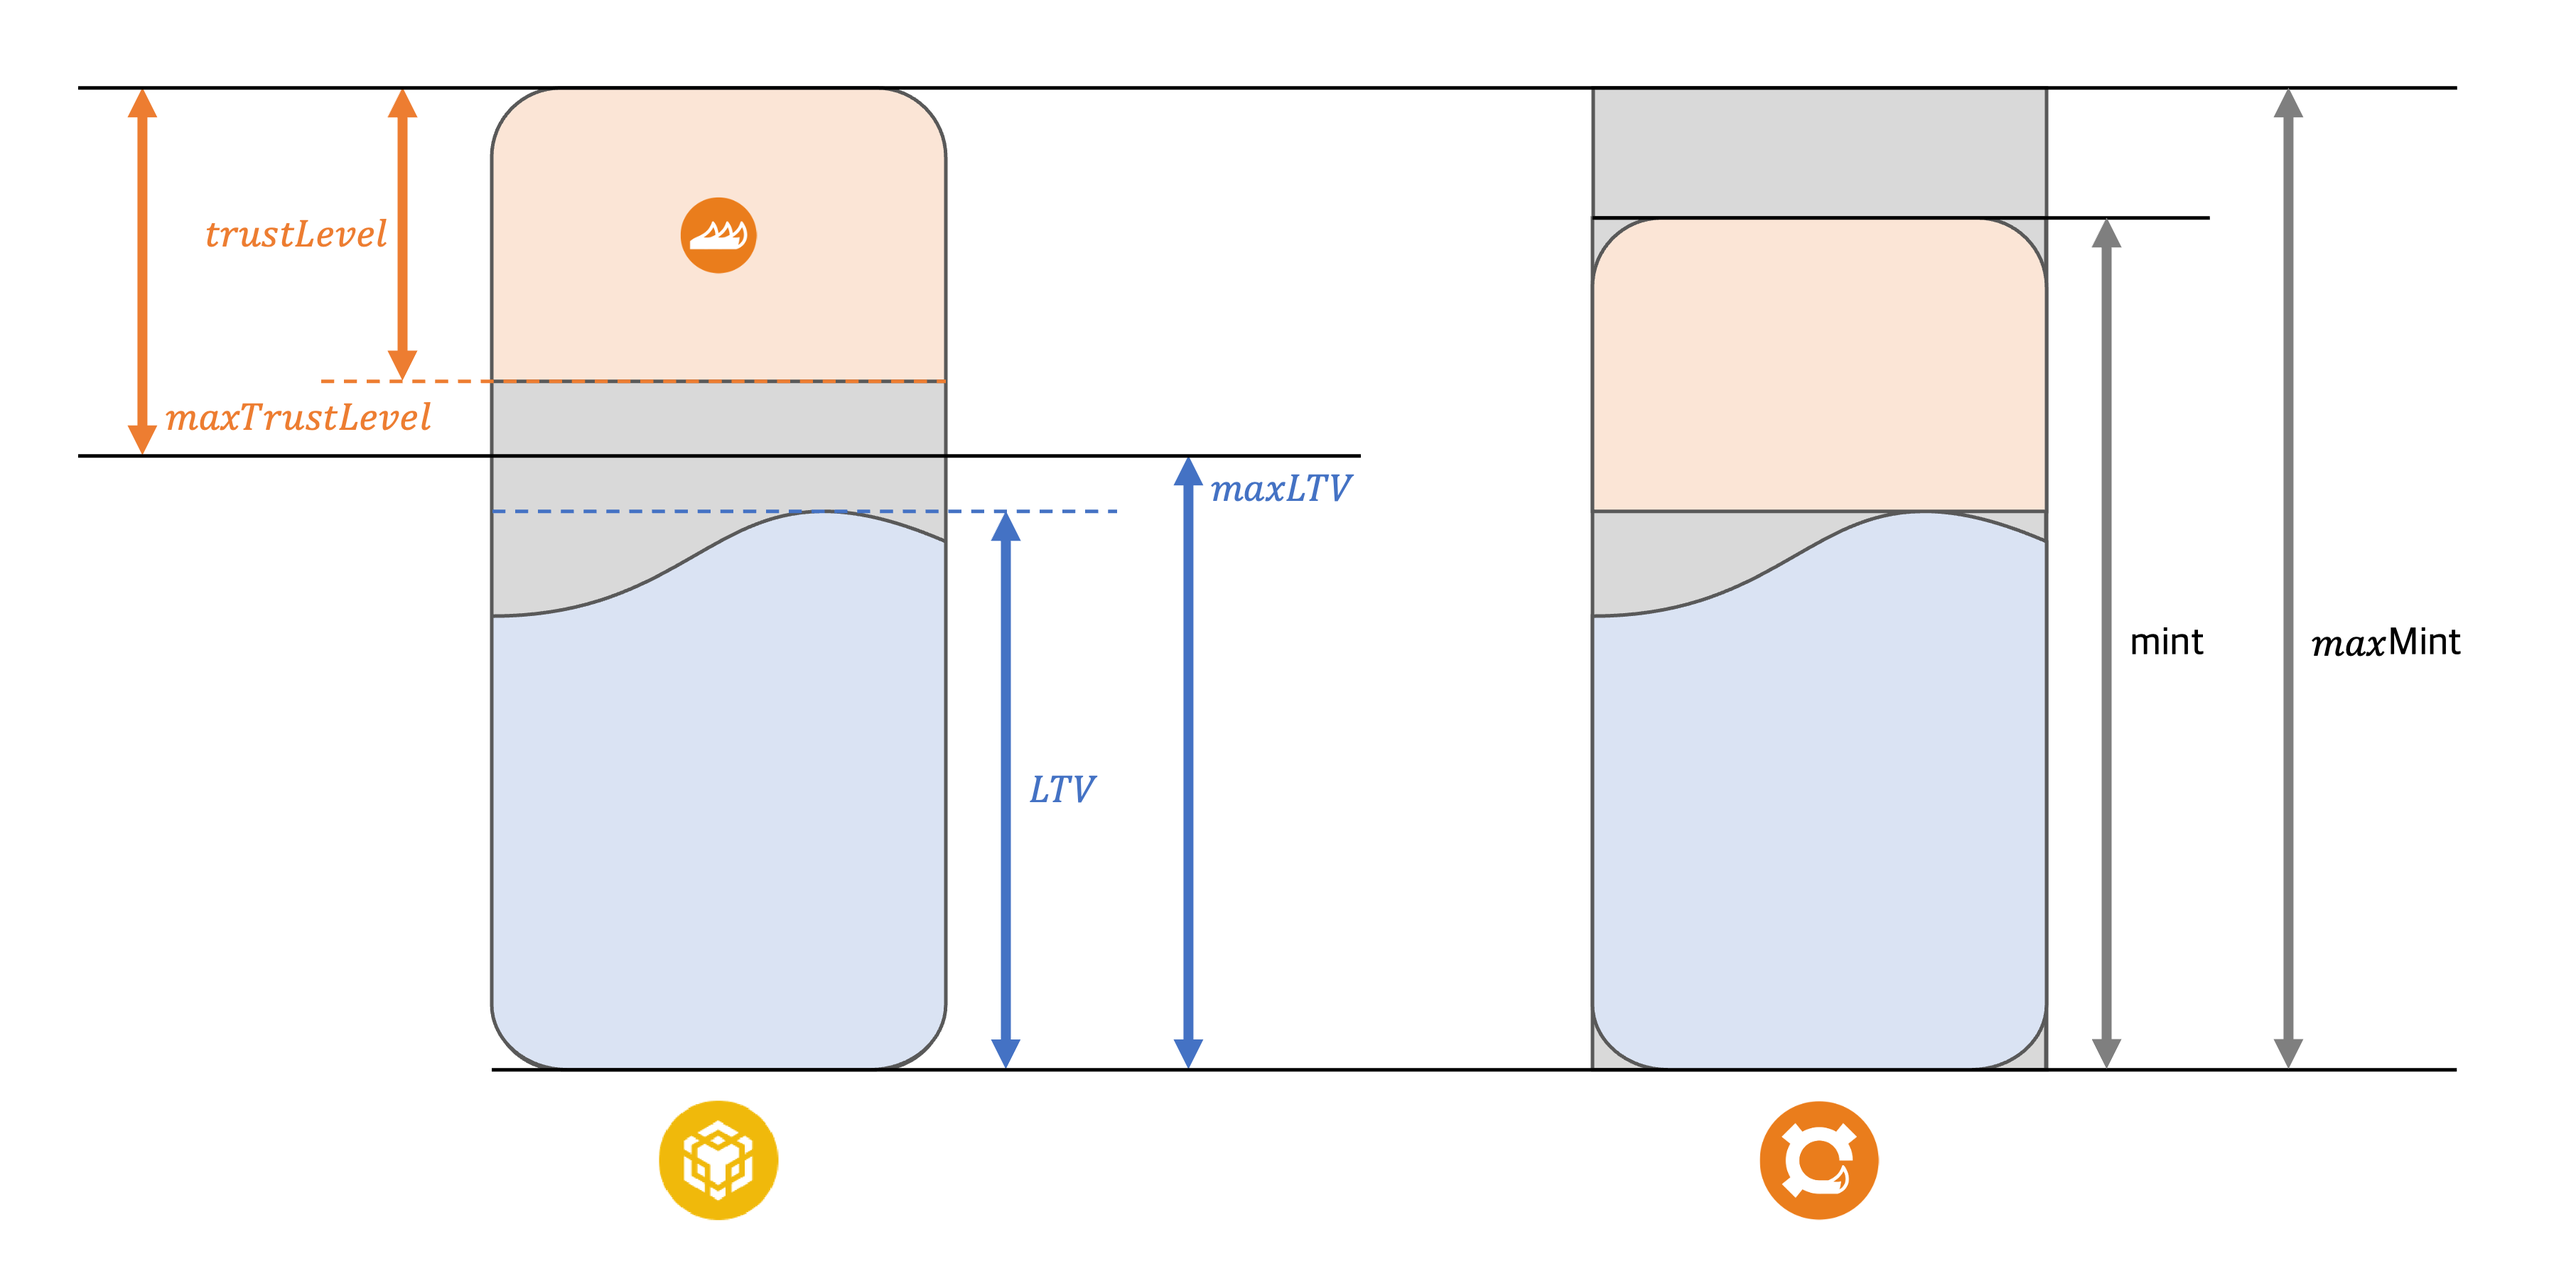
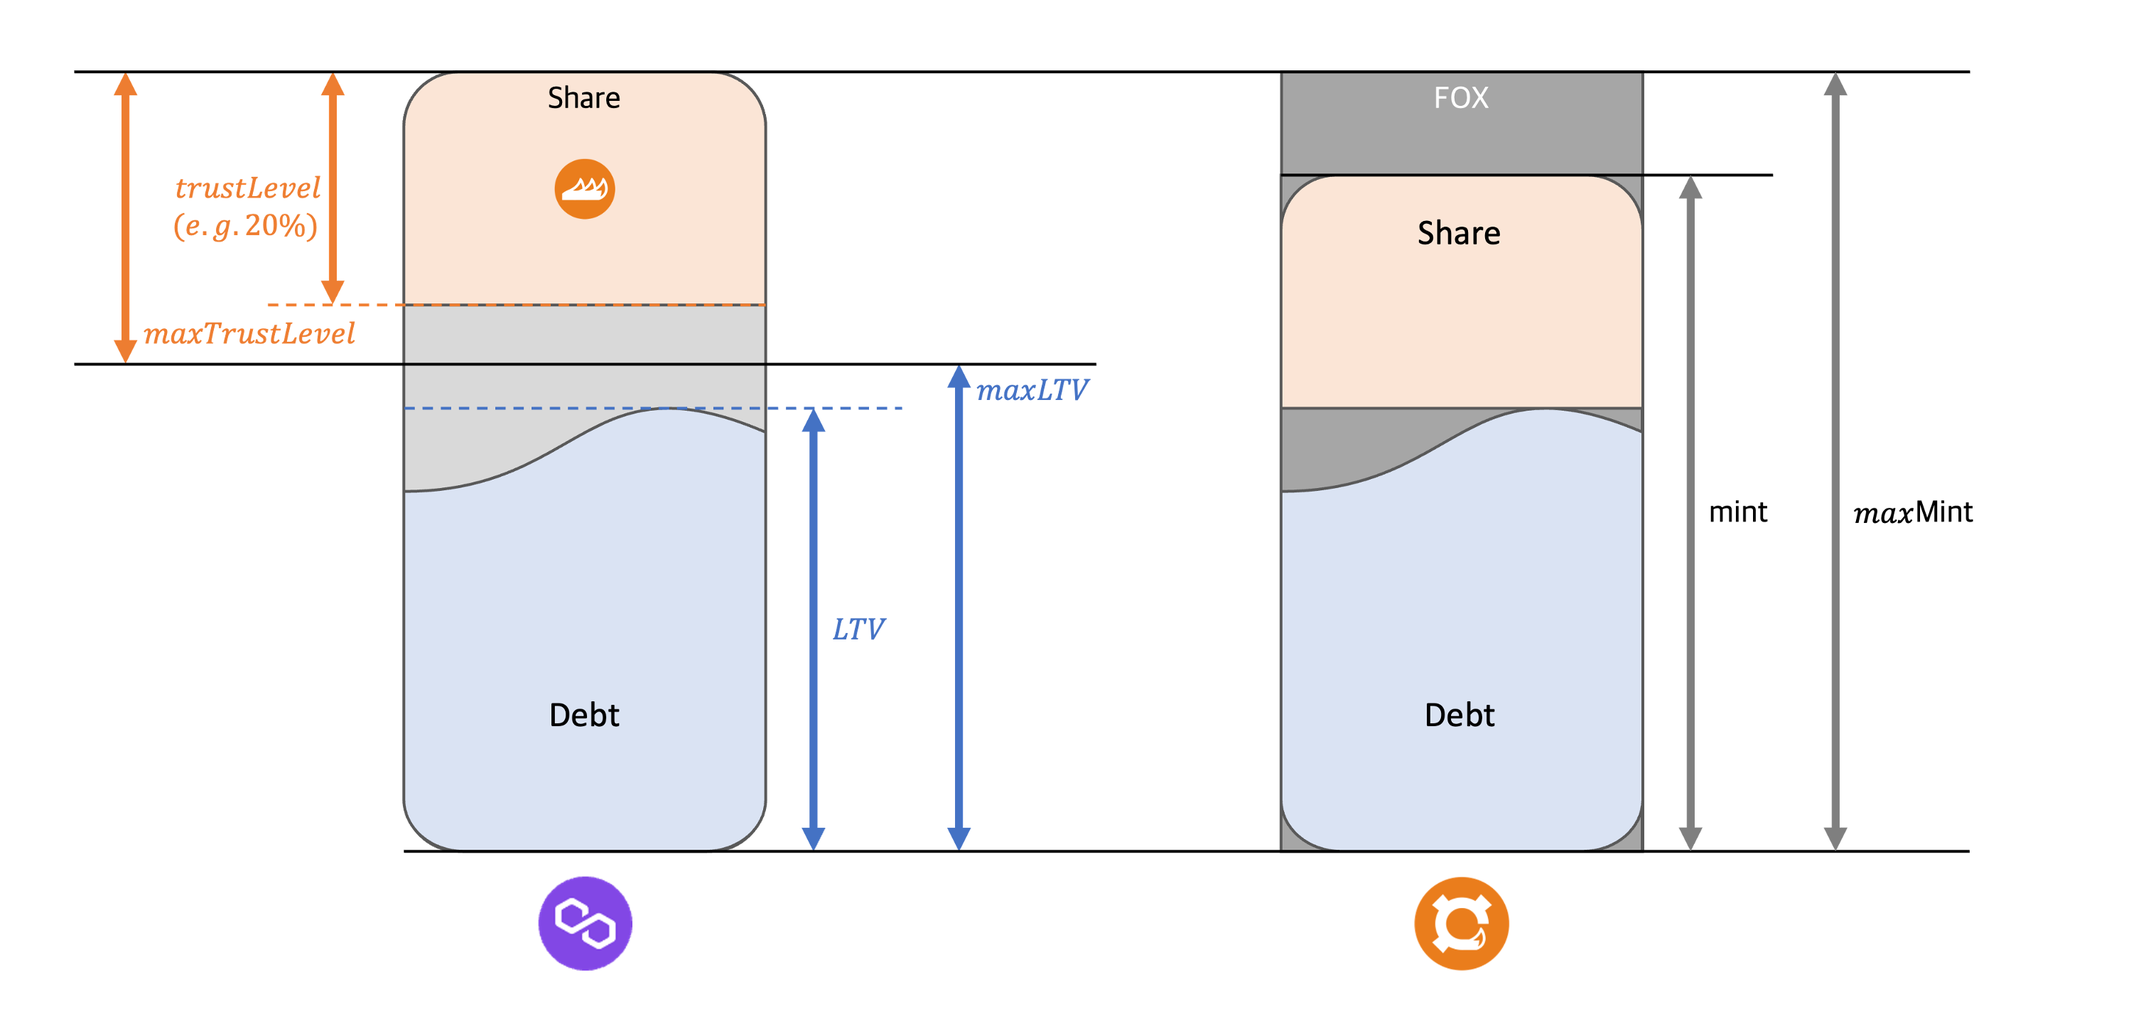
feat: ETH & MATIC

diff --git a/website/docs/Tokenomics/Tokens.md b/website/docs/Tokenomics/Tokens.md
@@ -4,15 +4,15 @@ sidebar_position: 1
 
 # Tokens
 
-There are many tokens in the FOX ecosystem; `BNB`, `FOX`, `FOXS`, `veFOXS`, and `SIN`.
+There are many tokens in the FOX ecosystem; `ETH`, `FOX`, `FOXS`, `veFOXS`, and `SIN`.
 
 ---
 
-## BNB (WBNB)
+## ETH (WETH)
 
-BNB is the native coin at BNB Smart Chain. BNB is internally converted into WBNB (wrapped BNB) as ERC20 for easy use in smart contracts. The conversion ratio between WBNB and BNB is 1:1.
+ETH is the native coin of Ethereum. Or, it means the native coin at some EVM-based blockchain such as Polygon (MATIC) or Binance Smart Chain (BNB). is internally converted into WETH (wrapped ETH) as ERC20 for easy use in smart contracts. The conversion ratio between WETH and ETH is 1:1.
 
-In the near future, BNB will be converted into [aBNBc](https://www.ankr.com/bnb-liquid-staking/) to earn staking rewards simultaneously.
+In the near future, staked assets will be used to earn staking rewards simultaneously.
 
 ---
 
@@ -20,7 +20,7 @@ In the near future, BNB will be converted into [aBNBc](https://www.ankr.com/bnb-
 
 ![](../images/tokens/FOX.png)
 
-FOX is the over-collateralized stablecoin backed by `BNB`. Through `Fox Farm`, users can mint FOX by giving `SIN` and `FOXS`.
+FOX is the over-collateralized stablecoin backed by `ETH`. Through `Fox Farm`, users can mint FOX by giving `SIN` and `FOXS`.
 
 ---
 
@@ -28,7 +28,7 @@ FOX is the over-collateralized stablecoin backed by `BNB`. Through `Fox Farm`, u
 
 ![](../images/tokens/SIN.png)
 
-Stable INtermidiate-coin (SIN) is the debt in a BNB-backed Collateralized Debt Position (CDP), similar to [DAI](https://makerdao.com/en/whitepaper). Although SIN is an independent ERC20 token, most users do not need to use SIN directly, except for the case of `Coupon`.
+Stable INtermidiate-coin (SIN) is the debt in a ETH-backed Collateralized Debt Position (CDP), similar to [DAI](https://makerdao.com/en/whitepaper). Although SIN is an independent ERC20 token, most users do not need to use SIN directly, except for the case of `Coupon`.
 
 ---
 
@@ -37,8 +37,8 @@ Stable INtermidiate-coin (SIN) is the debt in a BNB-backed Collateralized Debt P
 ![](../images/tokens/FOXS.png)
 
 FOX Share (FOXS) is the utility token in FOX Finance. You can use FOXS in various ways:
-- Deposit `BNB` and Burn FOXS. In other words, burn FOXS with `SIN` to mint `FOX`.
-- Earn FOXS (and `BNB`) by redeeming `FOX`.
+- Deposit `ETH` and Burn FOXS. In other words, burn FOXS with `SIN` to mint `FOX`.
+- Earn FOXS (and `ETH`) by redeeming `FOX`.
 - Earn FOXS with a bonus by recollateralizing.
 - Use FOXS to repay `SIN`. Or make a `Coupon` to repay debt in the future.
 - You can stake FOXS to earn rewards and more FOXS per each future block.

diff --git a/website/docs/Fox-Finance.md b/website/docs/Fox-Finance.md
@@ -7,7 +7,7 @@ sidebar_position: 1
 
 ![](./images/fox_logo_bg.png)
 
-> Powered by [moralis](https://moralis.io) and [BNB Smart Chain](https://www.bnbchain.org/en/smartChain).
+> Powered by [moralis](https://moralis.io)
 
 ---
 
@@ -15,7 +15,7 @@ sidebar_position: 1
 🪙DAI + ⚙FRAX = 🦊FOX
 ```
 
-**Fractional Over Collateralized Stablecoin (FOX)** is the first over-collateralized stablecoin that achieves strikingly capital efficiency. Like [DAI](https://makerdao.com/en/), FOX gets tokens (BNB) as collateral. On the other hand, FOX works like [FRAX](https://frax.finance), which partially relies on the seigniorage algorithmic method.
+**Fractional Over Collateralized Stablecoin (FOX)** is the first over-collateralized stablecoin that achieves strikingly capital efficiency. Like [DAI](https://makerdao.com/en/), FOX gets tokens (ETH, etc.) as collateral. On the other hand, FOX works like [FRAX](https://frax.finance), which partially relies on the seigniorage algorithmic method.
 
 ---
 

diff --git a/website/docs/Roadmap.md b/website/docs/Roadmap.md
@@ -18,6 +18,9 @@ Several feature updates are also scheduled to make the protocol more robust and 
 
 ## Liquid Staking
 
+In the near future, we'll use [stMATIC](https://lido.fi/polygon) and [xMATIC](https://polygon.staderlabs.com/liquid-staking/maticx) as collaterals.
+
+<!-- 
 In the near future, we use [Ankr](https://www.ankr.com/bnb-liquid-staking/)'s aBNBc token.
 
 ### Requirements
@@ -32,3 +35,4 @@ In the near future, we use [Ankr](https://www.ankr.com/bnb-liquid-staking/)'s aB
 - Relayer fee: 0.002 BNB.
 - Unstaking fee: 0.004 BNB.
 - Unstaking relay fee: 0.000075 BNB.
+-->
